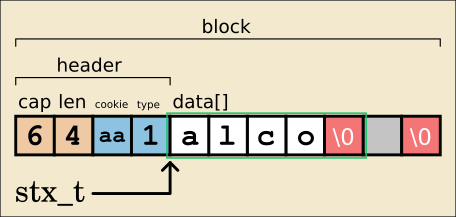
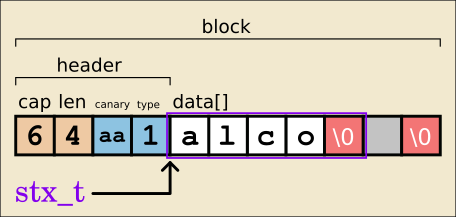
no negative off, rename cookie

diff --git a/src/stx.c b/src/stx.c
@@ -31,7 +31,7 @@ typedef struct {
 } Head4;
 
 typedef struct {   
-    uint8_t cookie; 
+    uint8_t canary; 
     uint8_t flags;
     char data[]; 
 } Attr;
@@ -50,14 +50,14 @@ static_assert ((1<<TYPE4) == sizeof(Head4), "bad TYPE4");
 #define TYPE_BITS 2
 #define TYPE_MASK ((1<<TYPE_BITS)-1)
 
-#define COOKIE(s) (((uint8_t*)(s))[-2])
-#define FLAGS(s)  (((uint8_t*)(s))[-1])
+#define HEAD(s) ((char*)(s) - sizeof(Attr) - TYPESZ(TYPE(s)))
+#define ATTR(s) ((Attr*)((char*)(s) - sizeof(Attr)))
+#define FLAGS(s)  ATTR(s)->flags
+#define CANARY(s) ATTR(s)->canary
 #define TYPE(s) (FLAGS(s) & TYPE_MASK)
 #define TYPESZ(type) (1<<type)
 #define MEMSZ(type,cap) (TYPESZ(type) + sizeof(Attr) + cap + 1) //MIN_CAP ??
-#define CHECK(s) ((s) && COOKIE(s) == MAGIC)
-#define HEAD(s) ((char*)(s) - sizeof(Attr) - TYPESZ(TYPE(s)))
-#define ATTR(head,type) ((Attr*)((char*)(head) + TYPESZ(type)))
+#define CHECK(s) ((s) && CANARY(s) == MAGIC)
 #define DATA(head,type) ((char*)head + TYPESZ(type) + sizeof(Attr))
 
 #define HSETCAP(head, type, val) HSETPROP(head, type, cap, val)
@@ -82,7 +82,6 @@ switch(type) { \
 #define GETSPC(s) HGETSPC(HEAD(s), TYPE(s))
 
 //==== PRIVATE ================================================================
-
 
 // ? min cap
 static bool 
@@ -121,8 +120,8 @@ resize (stx_t *ps, size_t newcap)
         memcpy((char*)news, s, len+1); //?
         // reput len
         HSETLEN(newhead, newtype, len);
-        // reput cookie
-        COOKIE(news) = MAGIC;
+        // reput canary
+        CANARY(news) = MAGIC;
         // update flags
         FLAGS(news) = (FLAGS(news) & ~TYPE_MASK) | newtype;
     }
@@ -249,8 +248,8 @@ stx_new (size_t mincap)
     HSETCAP(head, type, cap);
     HSETLEN(head, type, 0);
 
-    Attr* attr = ATTR(head, type);
-    attr->cookie = MAGIC;
+    Attr* attr = (Attr*)((char*)(head) + TYPESZ(type));
+    attr->canary = MAGIC;
     attr->flags = type;
     attr->data[0] = 0; 
     attr->data[cap] = 0; 
@@ -420,7 +419,7 @@ stx_show (stx_t s)
     const Type type = TYPE(s);
 
     #define FMT "%zu %zu %x %x \"%s\"\n"
-    #define ARGS (size_t)(h->cap), (size_t)(h->len), COOKIE(s), FLAGS(s), s
+    #define ARGS (size_t)(h->cap), (size_t)(h->len), CANARY(s), FLAGS(s), s
 
     switch(type){
         case TYPE4: {

diff --git a/README.md b/README.md
@@ -90,7 +90,7 @@ The trick :wink: lies **before** the *stx_t* address :
 Header {   
          cap;  
          len;  
-         cookie; 
+         canary; 
          flags;
     char data[];
 }
@@ -107,7 +107,7 @@ This technique is used notably in antirez [SDS](https://github.com/antirez/sds).
 The *SBlock* is invisible to the user, who only passes `stx_t` to and from.    
 The big + is, being really `char*`, *stricks* can be passed to any (non-modifying) `<string.h>` function.  
 
-The above layout is simplified. In reality, Stricks defines two header types to optimize space for short strings, and houses the *cookie* and *flags* attributes in a separate `struct`.
+The above layout is simplified. In reality, Stricks defines two header types to optimize space for short strings, and houses the *canary* and *flags* attributes in a separate `struct`.
 
 #### example usage
 ```C
@@ -296,7 +296,7 @@ stx_free(s);
 ```
 
 :wrench: **How it works**  
-On first call, `stx_free(s)` zeroes-out the header, erasing the `cookie` canary.  
+On first call, `stx_free(s)` zeroes-out the header, erasing the `canary`.  
 All subsequent API calls check the canary and do nothing if dead.
 
 
